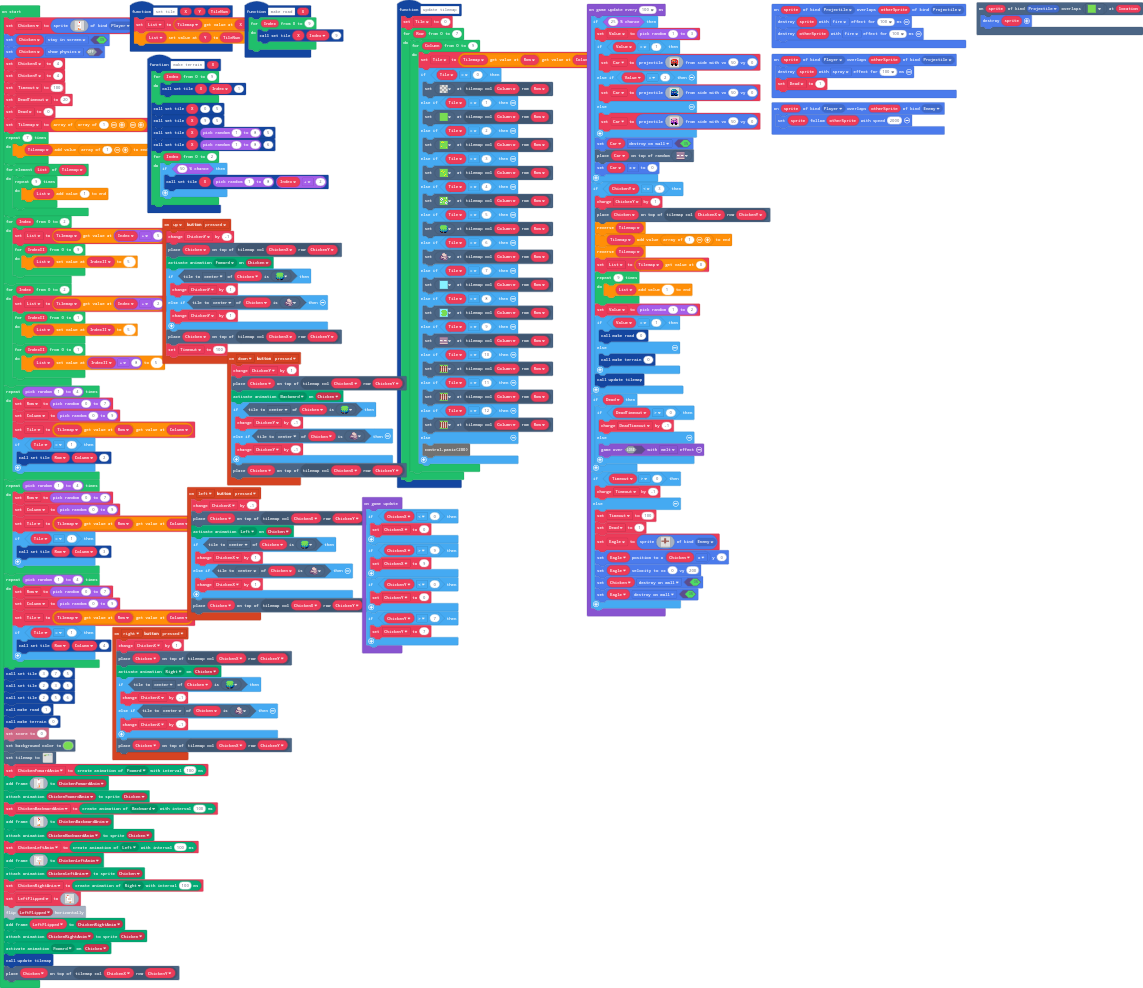
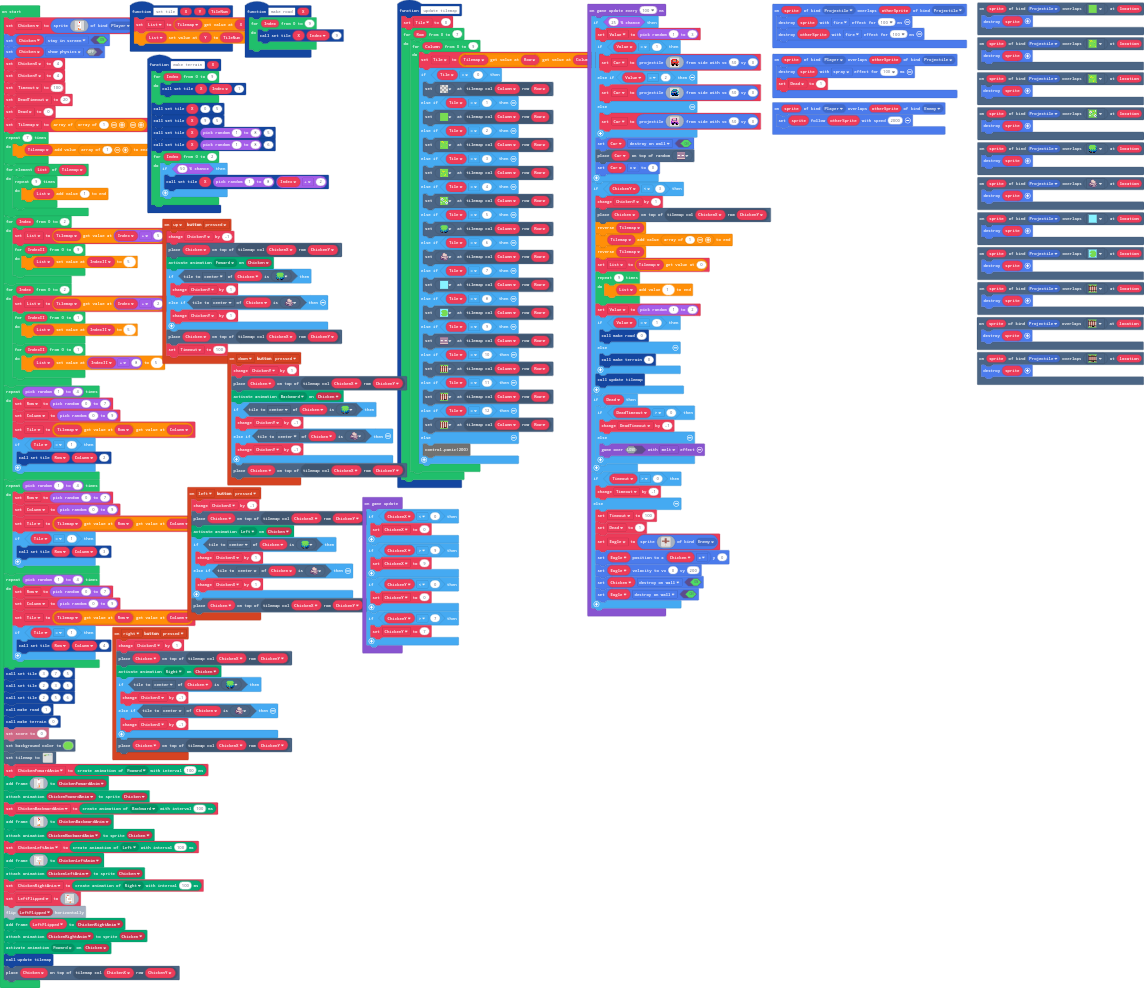
Destroys cars when touching anything other than a road

diff --git a/main.ts b/main.ts
@@ -156,6 +156,9 @@ function make_terrain (X: number) {
         }
     }
 }
+scene.onOverlapTile(SpriteKind.Projectile, sprites.castle.tileGrass1, function (sprite, location) {
+    sprite.destroy()
+})
 controller.left.onEvent(ControllerButtonEvent.Pressed, function () {
     ChickenX += -1
     tiles.placeOnTile(Chicken, tiles.getTileLocation(ChickenX, ChickenY))
@@ -178,9 +181,27 @@ controller.down.onEvent(ControllerButtonEvent.Pressed, function () {
     }
     tiles.placeOnTile(Chicken, tiles.getTileLocation(ChickenX, ChickenY))
 })
+scene.onOverlapTile(SpriteKind.Projectile, sprites.castle.rock0, function (sprite, location) {
+    sprite.destroy()
+})
+scene.onOverlapTile(SpriteKind.Projectile, myTiles.tile5, function (sprite, location) {
+    sprite.destroy()
+})
+scene.onOverlapTile(SpriteKind.Projectile, myTiles.tile3, function (sprite, location) {
+    sprite.destroy()
+})
+scene.onOverlapTile(SpriteKind.Projectile, sprites.castle.tileGrass3, function (sprite, location) {
+    sprite.destroy()
+})
+scene.onOverlapTile(SpriteKind.Projectile, myTiles.tile7, function (sprite, location) {
+    sprite.destroy()
+})
 sprites.onOverlap(SpriteKind.Player, SpriteKind.Projectile, function (sprite, otherSprite) {
     sprite.destroy(effects.spray, 100)
     Dead = 1
+})
+scene.onOverlapTile(SpriteKind.Projectile, myTiles.tile6, function (sprite, location) {
+    sprite.destroy()
 })
 sprites.onOverlap(SpriteKind.Projectile, SpriteKind.Projectile, function (sprite, otherSprite) {
     sprite.destroy(effects.fire, 100)
@@ -200,10 +221,16 @@ controller.right.onEvent(ControllerButtonEvent.Pressed, function () {
     }
     tiles.placeOnTile(Chicken, tiles.getTileLocation(ChickenX, ChickenY))
 })
+scene.onOverlapTile(SpriteKind.Projectile, myTiles.tile4, function (sprite, location) {
+    sprite.destroy()
+})
 function set_tile (X: number, Y: number, TileNum: number) {
     List = Tilemap[X]
     List[Y] = TileNum
 }
+scene.onOverlapTile(SpriteKind.Projectile, sprites.builtin.forestTiles0, function (sprite, location) {
+    sprite.destroy()
+})
 controller.up.onEvent(ControllerButtonEvent.Pressed, function () {
     ChickenY += -1
     tiles.placeOnTile(Chicken, tiles.getTileLocation(ChickenX, ChickenY))
@@ -259,6 +286,9 @@ function update_tilemap () {
     }
 }
 scene.onOverlapTile(SpriteKind.Projectile, myTiles.tile2, function (sprite, location) {
+    sprite.destroy()
+})
+scene.onOverlapTile(SpriteKind.Projectile, sprites.castle.tileGrass2, function (sprite, location) {
     sprite.destroy()
 })
 let Eagle: Sprite = null
